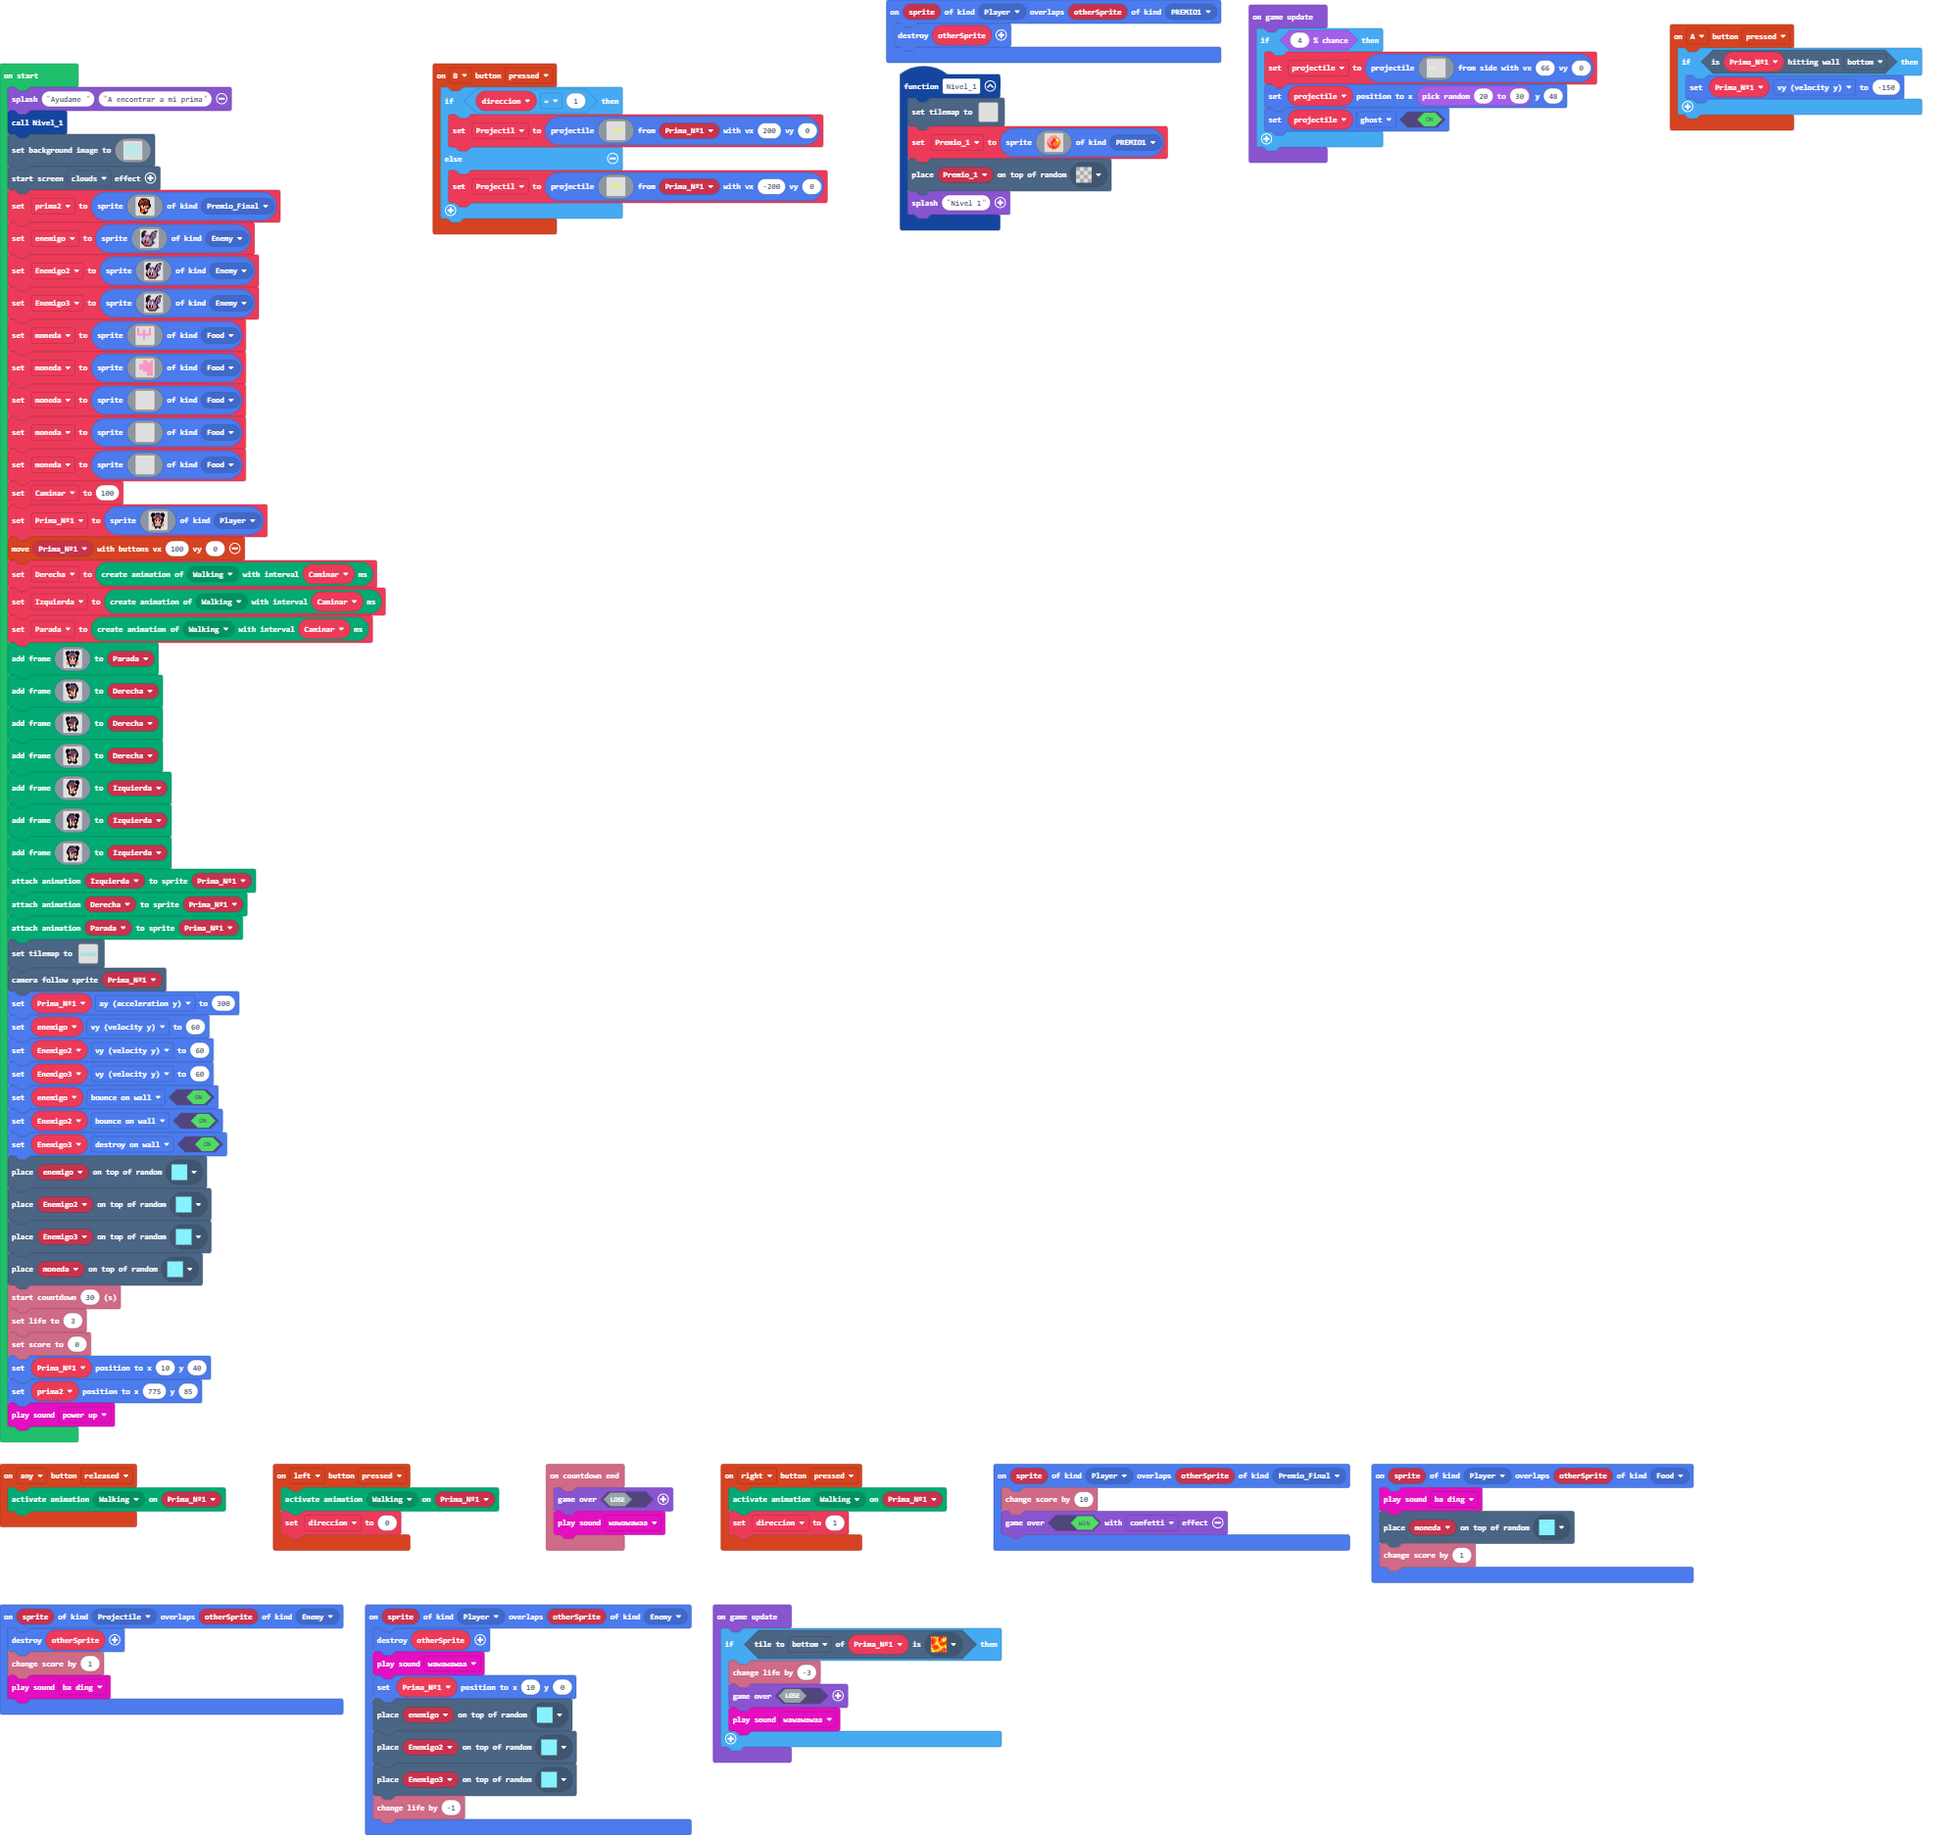
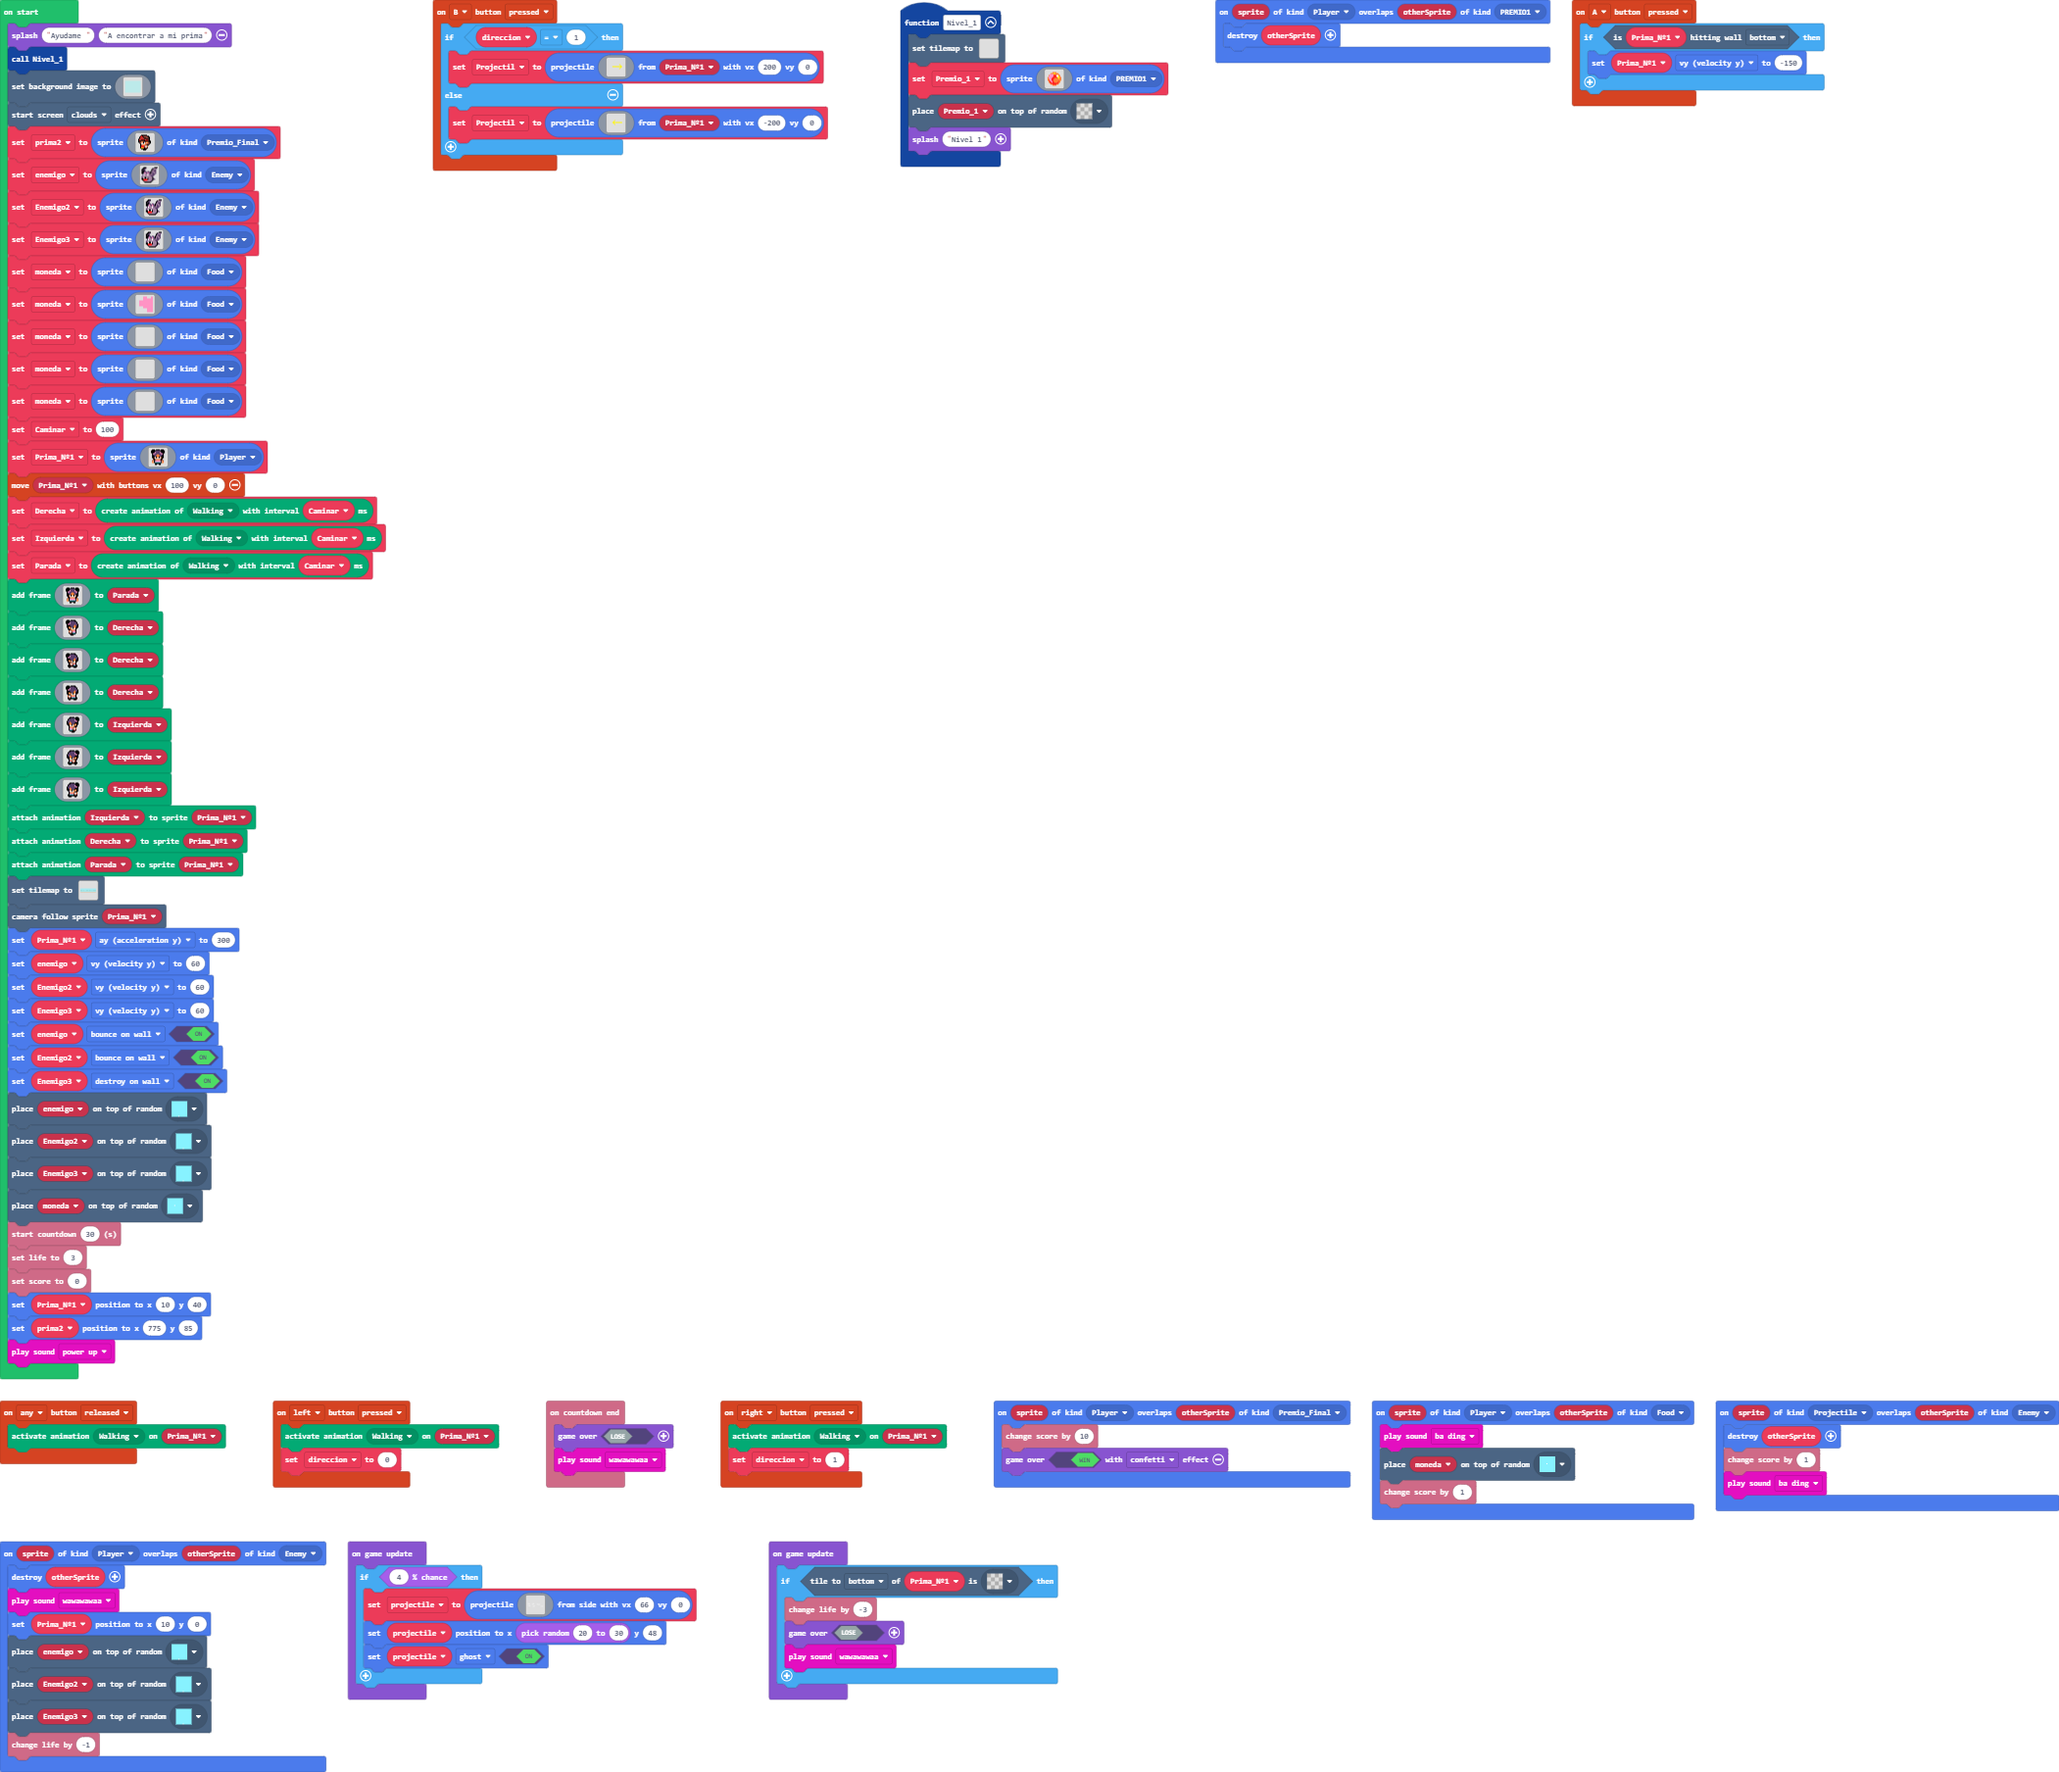
Update main.blocks, main.ts

Changed region(s): [[0.0, 0.0, 1.0, 1.0], [0.1865, 0.0, 0.9945, 0.1549]]

diff --git a/main.ts b/main.ts
@@ -361,12 +361,12 @@ Enemigo3 = sprites.create(img`
     . . . f f f f f f f . . . . . . 
     `, SpriteKind.Enemy)
 moneda = sprites.create(img`
-    3 . . . . . 3 . 
-    3 . . 3 . . 3 . 
-    3 . . 3 . . 3 . 
-    3 3 3 3 3 3 3 . 
-    . . . 3 . . . . 
-    . . . 3 . . . . 
+    . . . . . . . . 
+    . . . . . . . . 
+    . . . . . . . . 
+    . . . . . . . . 
+    . . . . . . . . 
+    . . . . . . . . 
     . . . . . . . . 
     . . . . . . . . 
     `, SpriteKind.Food)
@@ -598,20 +598,20 @@ game.onUpdate(function () {
     if (Math.percentChance(4)) {
         projectile = sprites.createProjectileFromSide(img`
             . . . . . . . . . . . . . . . . . . . . . . . . . . . . . . . . . . . . . . . . . . . . . . . . . . . . . . . . . . . . . . . . 
-            . . 1 1 1 . . . . . . . . . . . . . . . . . . . . . . . . . . . . . . . . . . . . . . . . . . . . . . . . . . . . . . . . . . . 
-            . 1 1 1 1 1 1 1 1 . . . . . . . . . . . . . . . . . . . . . . . . . . . . . . . . . . . . . . . . . . . . . . . . . . . . . . . 
-            . 1 1 1 1 1 1 1 1 1 . . . . . . . . . . . . . . . . . . . . . . . . . . . . . . . . . . . . . . . . . . . . . . . . . . . . . . 
-            . . 1 1 1 1 1 1 1 1 . . . . . . . . . 1 1 1 . . . . . . . . . . . . . . . . . . . . . . . . . . . . . . . . . . . . . . . . . . 
-            . . 1 1 1 1 1 1 1 . . . . . . . . 1 1 1 1 1 1 1 1 . . . . . . . . . . . . . . . . . . . . . . . . . . . . . . . . . . . . . . . 
-            . . . . . . . . . . . . . . . . . 1 1 1 1 1 1 1 1 1 . . . . . . . . . . . . . . . . . . . . . . . . . . . . . . . . . . . . . . 
-            . . . . . . 1 1 1 . . . . . . . . 1 1 1 1 1 1 1 1 1 . . . . . . . . . . . . . . . . . . . . . . . . . . . . . . . . . . . . . . 
-            . . . . . 1 1 1 1 1 1 1 . . . . . . 1 1 1 1 1 1 1 1 1 . . . . . . . . . . . . . . . . . . . . . . . . . . . . . . . . . . . . . 
-            . . 1 1 1 1 1 1 1 1 1 1 1 . . . . . . . 1 . . . . . . . . . . . . . . . . . . . . . . . . . . . . . . . . . . . . . . . . . . . 
-            . . 1 1 1 1 1 1 1 1 1 1 1 1 . . . . . . . . . . . . . . . . . . . . . . . . . . . . . . . . . . . . . . . . . . . . . . . . . . 
-            . . 1 1 1 1 1 1 1 1 1 1 1 1 . . . . . . . . . . 1 1 1 1 1 . . . . . . . . . . . . . . . . . . . . . . . . . . . . . . . . . . . 
-            . . 1 1 1 1 1 1 1 1 1 1 1 1 . . . . . . . . 1 1 1 1 1 1 1 1 . . . . . . . . . . . . . . . . . . . . . . . . . . . . . . . . . . 
-            . . . . . . . . . 1 1 . . . . . . . . . . 1 1 1 1 1 1 1 1 1 . . . . . . . . . . . . . . . . . . . . . . . . . . . . . . . . . . 
-            . . . . . . . . . . . . . . . . . . . . . 1 1 1 1 1 1 1 1 . . . . . . . . . . . . . . . . . . . . . . . . . . . . . . . . . . . 
+            . . 1 1 1 . . . . . . . . . . . . . . . . . . . 1 1 . . . . . . . . . . . . . . . . . . . . . . . . . . . . . . . . . . . . . . 
+            . 1 1 1 1 1 1 1 1 . . . . . . . . . . . . . 1 1 1 1 1 . . . . . . . . . . . . . . . . . . . . . . . . . . . . . . . . . . . . . 
+            . 1 1 1 1 1 1 1 1 1 . . . . . . . . . . 1 1 1 1 1 1 1 1 . . . . . . . . . . 1 . . . . . . . . . . . . . . . . . . . . . . . . . 
+            . . 1 1 1 1 1 1 1 1 . . . . . . . . 1 1 1 1 1 1 1 1 1 1 . . . . . . . . . 1 1 1 1 1 1 . . . . . . . . . . . . . . . . . . . . . 
+            . . 1 1 1 1 1 1 1 . . . . . . . . 1 1 1 1 1 1 1 1 1 1 . . . . . . . . . . . 1 1 1 1 1 1 1 1 1 1 1 1 . . . . . . . . . . . . . . 
+            . . . . . . . . . . . . . . . . . . . 1 1 1 . . . . . . . . . . . . . . . . 1 1 1 1 1 1 1 1 1 1 1 1 1 . . . . . . . . . . . . . 
+            . . . . . . . . . . . . . . . . . . . . . . . . . . . . . . . . . . . . . . . . . . . . . 1 1 1 1 . . . . . . . . . . . . . . . 
+            . . . . . . . . . . . . . . . . . . . . . . . . . . . . . . . . . . . . . . . . . . . . . . . . . . . . . . . . . . . . . . . . 
+            . . . . . 1 1 . . . . . . . . . . . . . . . . . . . . . . . . . . . . . . . . . . . . . . . . . . . . . . . . . . . . . . . . . 
+            . . . 1 1 1 1 1 1 1 1 . . . . . . . . . . . . . . . . . . . . . . . . . . . . . . . . . . . . . . . . . . . . . . . . . . . . . 
+            . . . 1 1 1 1 1 1 1 1 1 . . . . . . . . . . . . 1 1 1 1 1 . . . . . . . . . . . . . . . . . . . . . . . . . . . . . 1 1 . . . . 
+            . . . 1 1 1 1 1 1 1 1 1 . . . . . . . . . . 1 1 1 1 1 1 1 1 . . . . . . . . . . . . . . . . . . . . . . . . . . . 1 1 1 1 1 . . 
+            . . . . . 1 1 1 1 1 1 1 . . . . . . . . . 1 1 1 1 1 1 1 1 1 . . . . . . . . . . . . . . . . . . . . . . . 1 1 1 1 1 1 1 1 1 . . 
+            . . . . . . . . . . . . . . . . . . . . . 1 1 1 1 1 1 1 1 . . . . . . . . . . . . . . . . . . . . . . . . 1 1 1 1 1 1 1 1 1 . . 
             . . . . . . . . . . . . . . . . . . . . . . . . . . . . . . . . . . . . . . . . . . . . . . . . . . . . . . . . . . . . . . . . 
             `, 66, 0)
         projectile.setPosition(randint(20, 30), 48)
